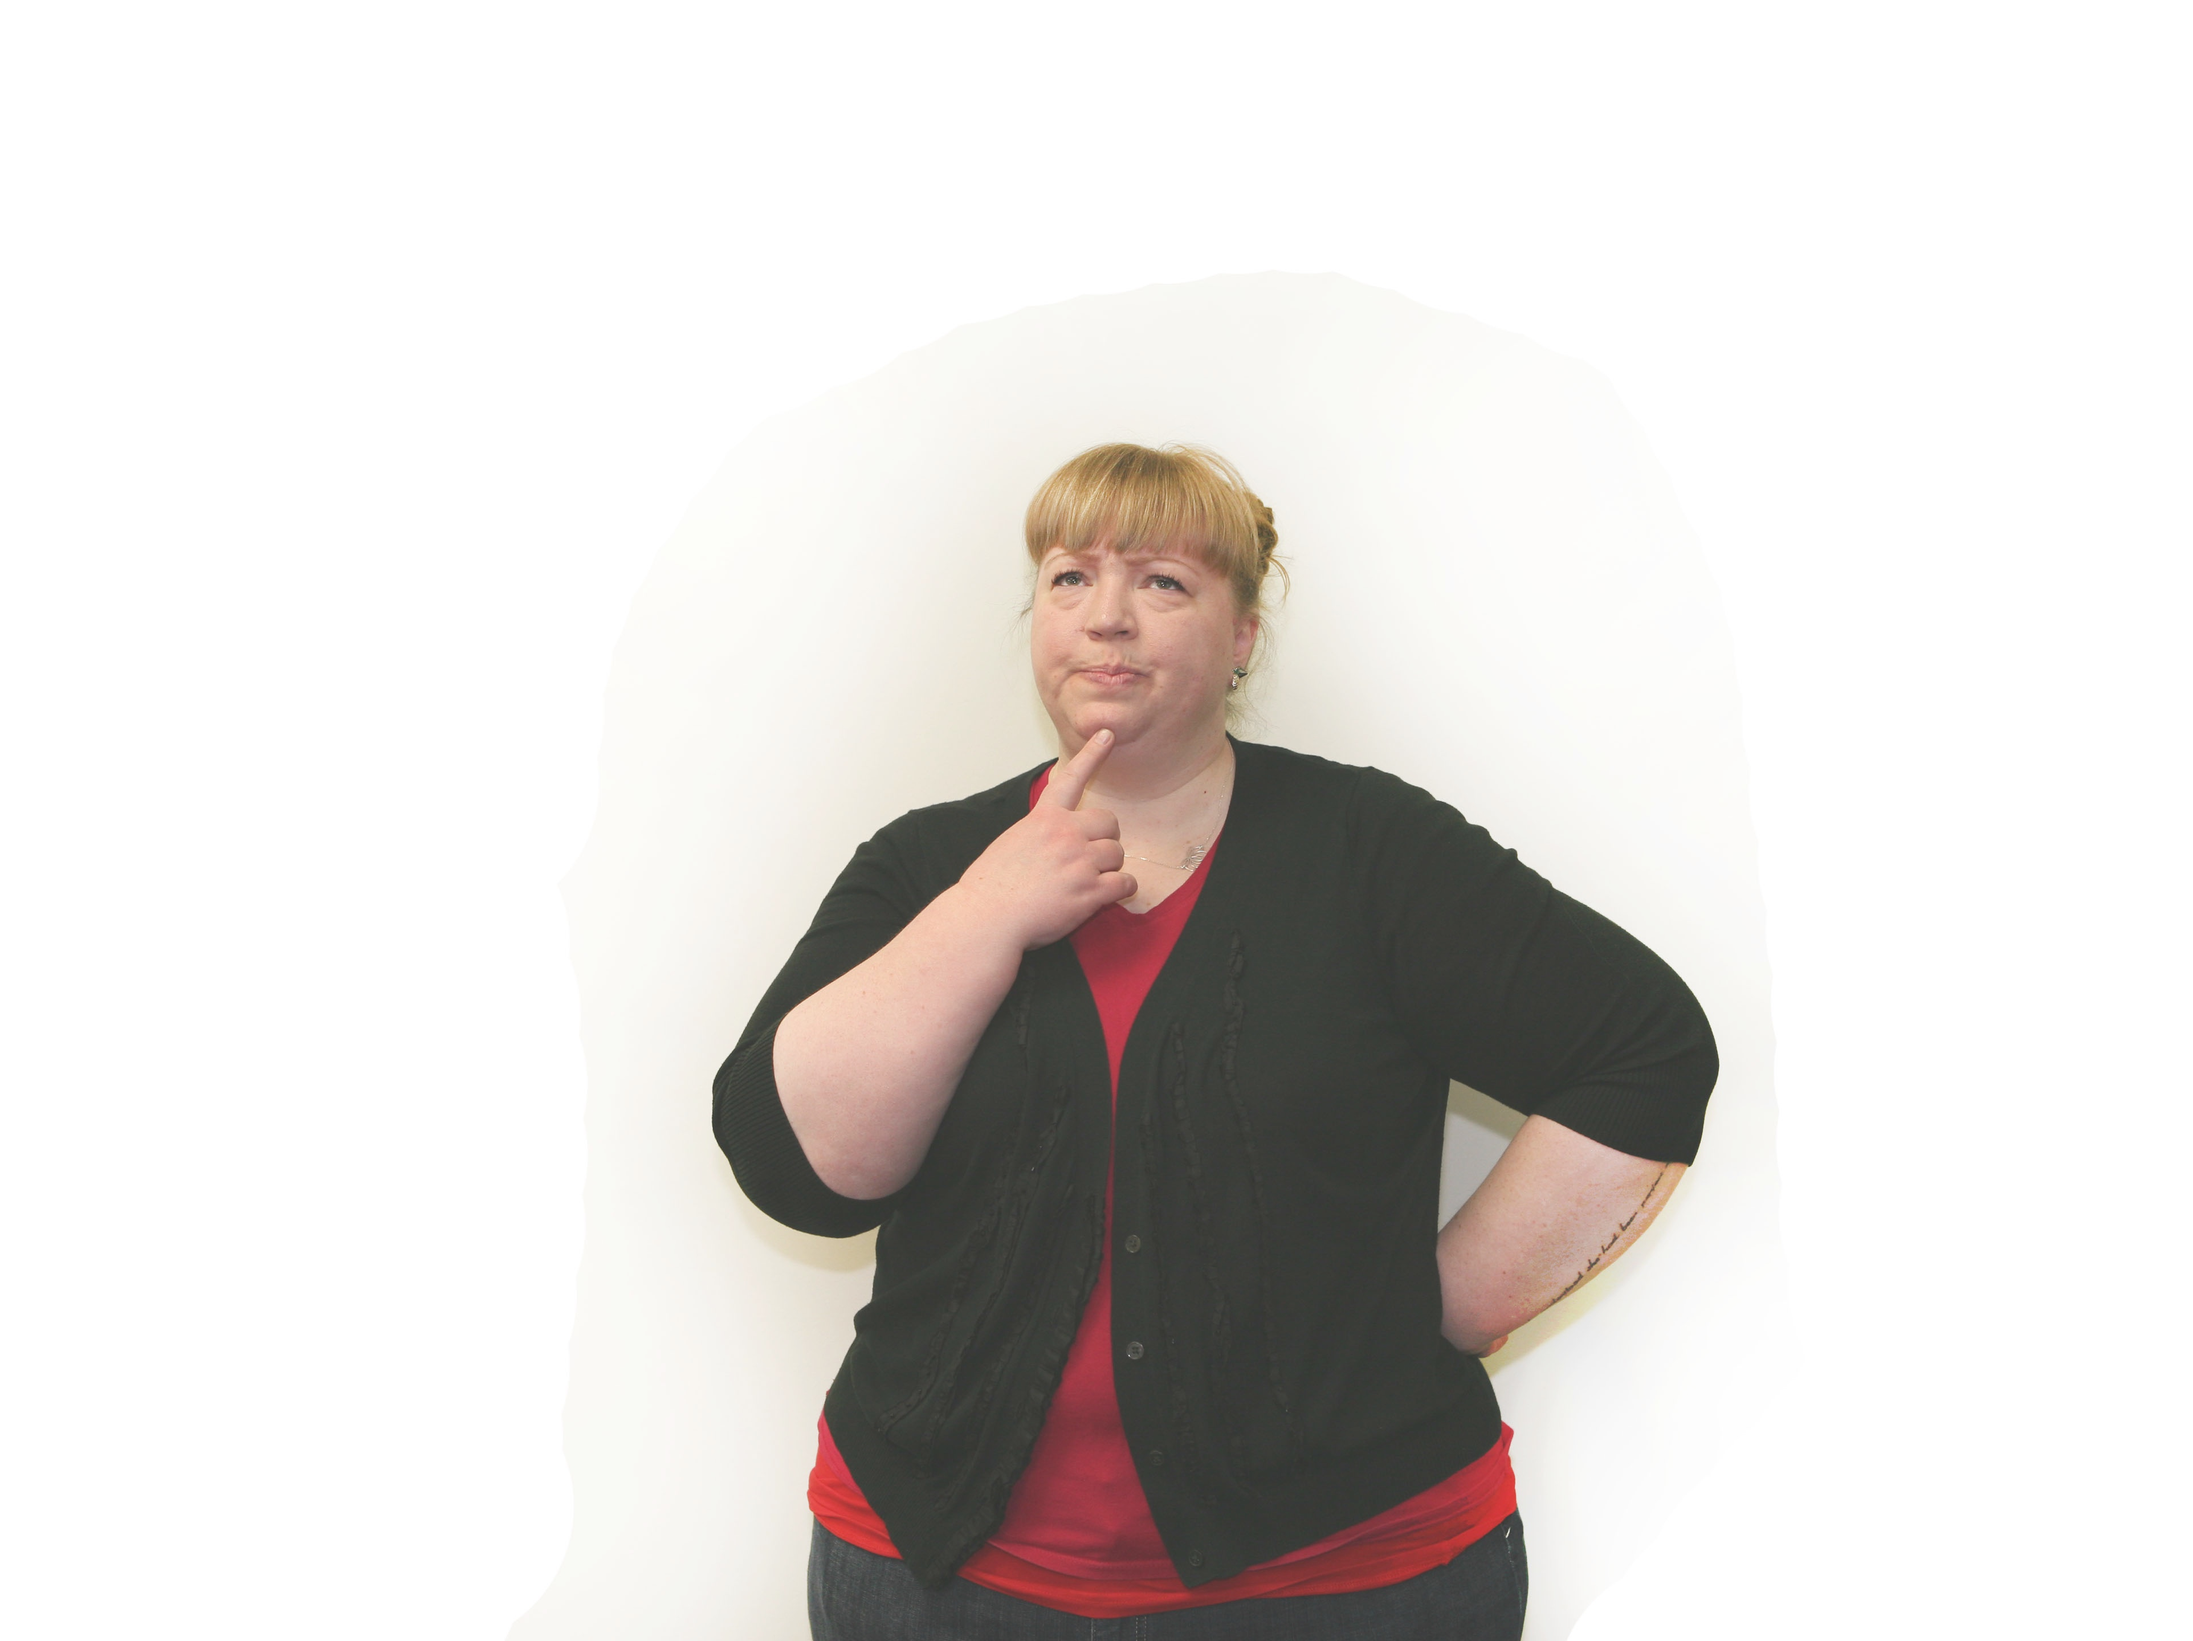
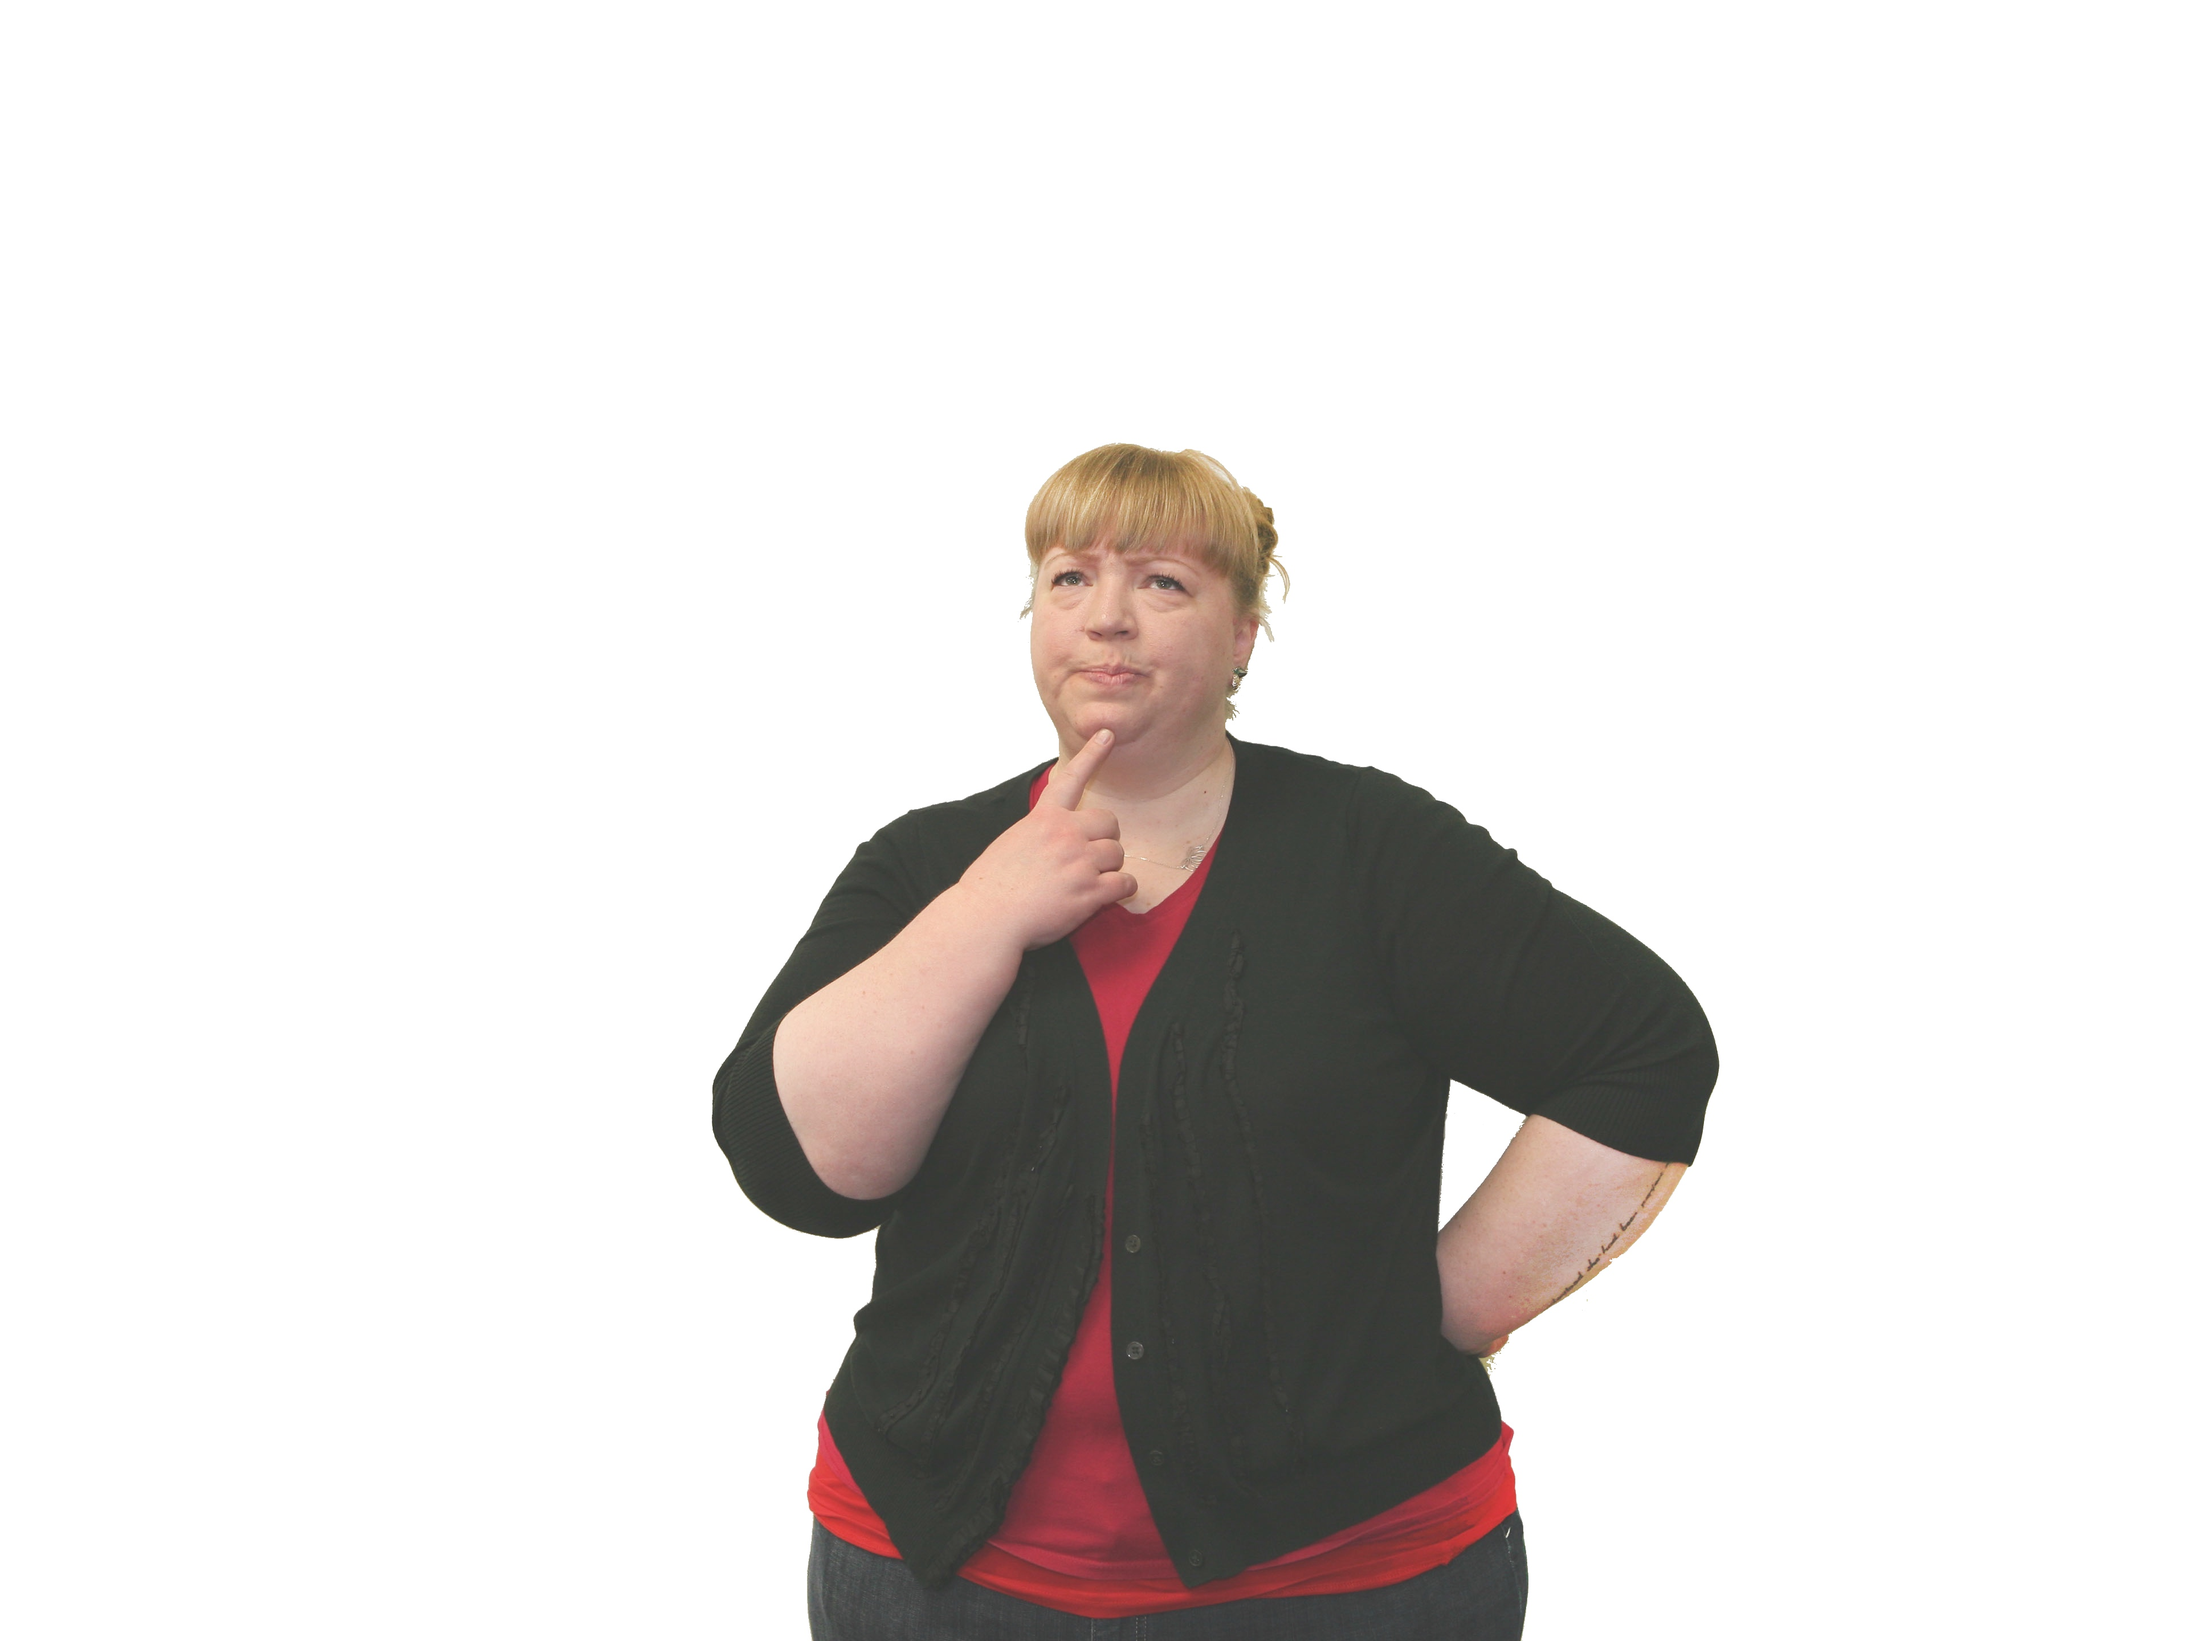
Update images

diff --git a/index.html b/index.html
@@ -63,7 +63,7 @@
 				</section>
 
 				<!-------------------------- slide -------------------------->
-				<section>
+				<section data-background="images/katie/lookupcenterback.jpg" data-background-size="75%">
 					<h2>Why Discuss Research Methods?</h2>
 					<ul class="color_list">
 						<li><span>Most graduates of library schools take an introductory
